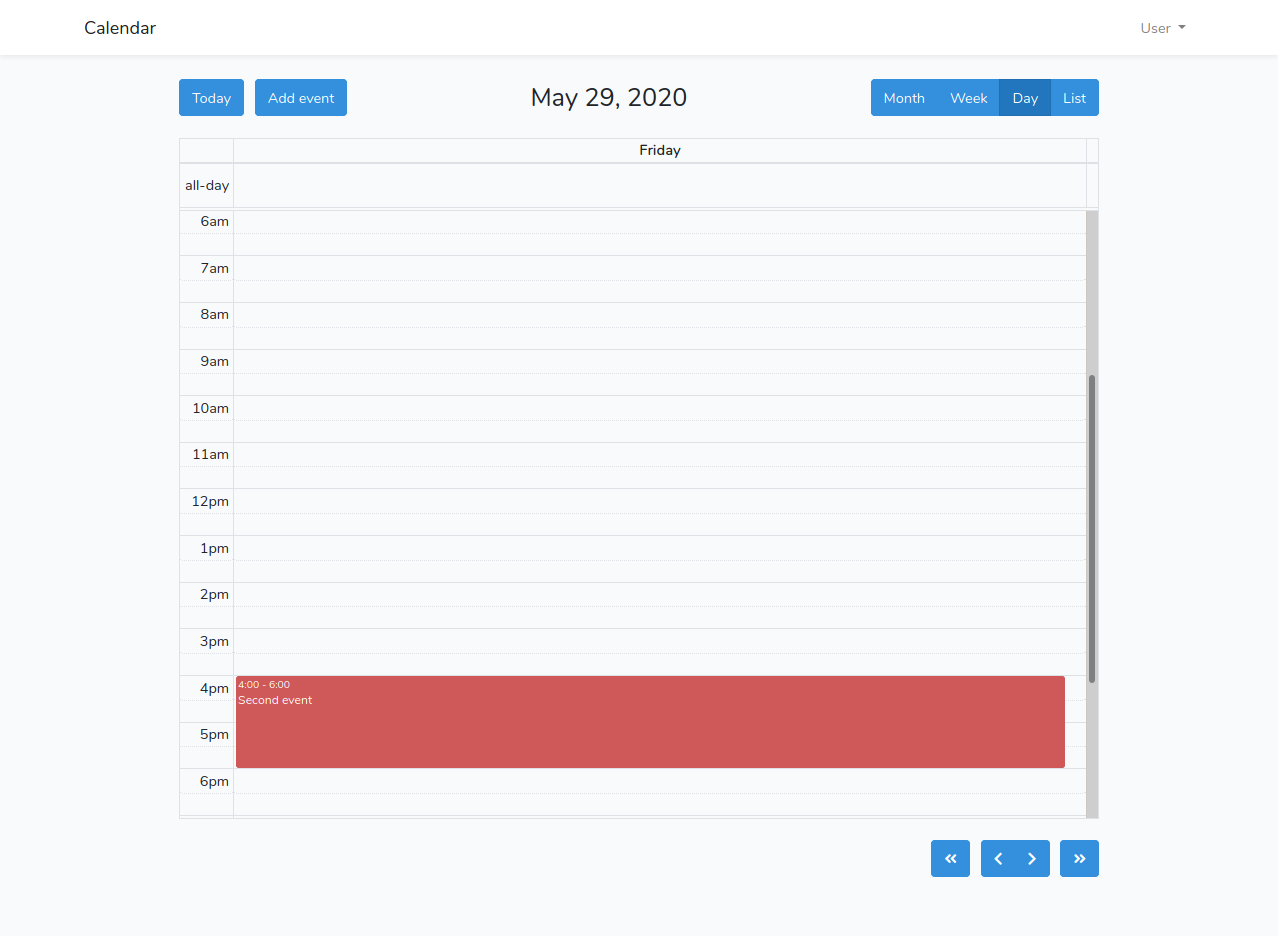
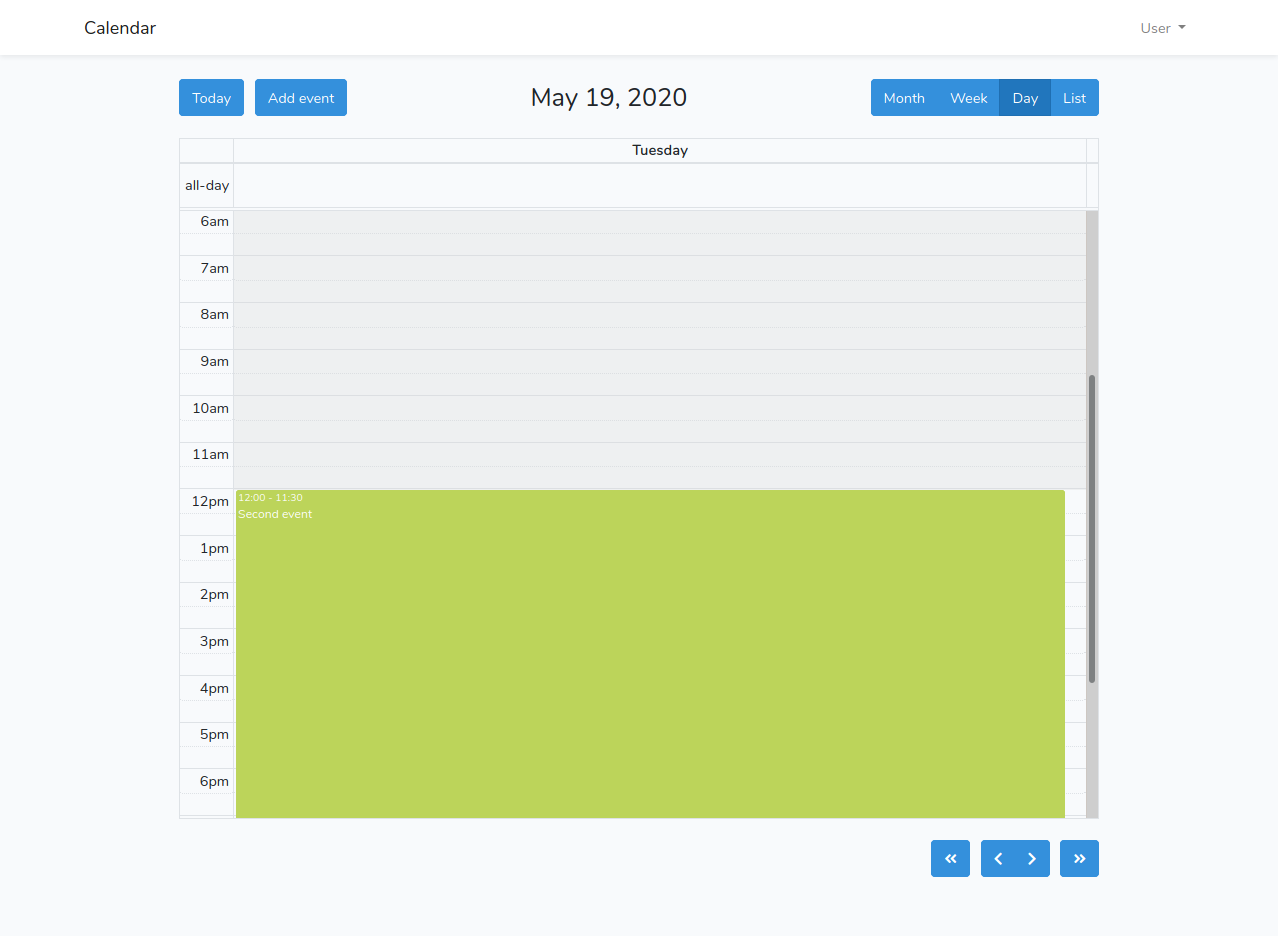
Validaciones para fechas y tiempo

Changed region(s): [[0.1831, 0.4957, 0.8545, 0.8985], [0.4883, 0.1549, 0.5493, 0.1859], [0.4577, 0.0929, 0.4883, 0.1239]]

diff --git a/public/js/main.js b/public/js/main.js
@@ -9,6 +9,19 @@ document.addEventListener('DOMContentLoaded', function() {
         //defaultDate: new Date(2019,8,1),
         //defaultView: 'timeGridDay',
 
+        businessHours: [ // specify an array instead
+            {
+              daysOfWeek: [ 1, 2, 3, 4 ], // Monday, Tuesday, Wednesday
+              startTime: '12:00', // 8am
+              endTime: '20:00' // 6pm
+            },
+            {
+              daysOfWeek: [ 5, 6, 0 ], // Thursday, Friday
+              startTime: '10:00', // 10am
+              endTime: '22:00' // 4pm
+            }
+        ],
+
         // Setting header
         header: {
             left: 'today addNewEvent',
@@ -48,6 +61,9 @@ document.addEventListener('DOMContentLoaded', function() {
                     // Clean form fields
                     cleanForm();
 
+                    // Enable star date field
+                    $('#start_date').prop('disabled', false);
+
                     // Setting date and time
                     var date = new Date();
                     var year = date.getFullYear();
@@ -60,7 +76,7 @@ document.addEventListener('DOMContentLoaded', function() {
                     $('#start_date').val(year+'-'+month+'-'+day);
                     $('#start_time').val('12:00');
                     $('#end_date').val(year+'-'+month+'-'+day);
-                    $('#end_time').val('12:00');
+                    $('#end_time').val('12:30');
 
                     // Show hide footer buttons
                     $("#btnAdd").show();
@@ -78,13 +94,14 @@ document.addEventListener('DOMContentLoaded', function() {
             // Clean form fields
             cleanForm();
             
+            // Disable star date field
             $('#start_date').prop('disabled', true);
 
             // Setting form fields with teh selected date and time
             $('#start_date').val(info.dateStr);
             $('#start_time').val('12:00');
             $('#end_date').val(info.dateStr);
-            $('#end_time').val('12:00');
+            $('#end_time').val('12:30');
             
             // Show hide footer buttons
             $("#btnAdd").show();
@@ -98,7 +115,8 @@ document.addEventListener('DOMContentLoaded', function() {
         },
 
         // Config actions when clicking in an event
-        eventClick: function(info) {            
+        eventClick: function(info) {
+            // Enable star date field
             $('#start_date').prop('disabled', false);
 
             // Getting start date and time
@@ -155,38 +173,45 @@ document.addEventListener('DOMContentLoaded', function() {
     // Config add actions
     $('#btnAdd').click(function() {
         eventObj = getFormEventData("POST");
-        sendInfoEvent('',eventObj);
+        sendInfoEvent('', eventObj);
 	})
     
     // Config edit actions
 	$('#btnEdit').click(function() {
         eventObj = getFormEventData("PATCH");
-        sendInfoEvent('/'+$('#id').val(),eventObj);
+        sendInfoEvent('/'+$('#id').val(), eventObj);
     })
 
     // Config delete actions
 	$('#btnDelete').click(function() {
         eventObj = getFormEventData("DELETE");
-        sendInfoEvent('/'+$('#id').val(),eventObj);
+        sendInfoEvent('/'+$('#id').val(), eventObj);
 	})
 
     // Getting data from form event modal
     function getFormEventData(method) {
 
-        newEventObj = {
-            title: $('#title').val(),
-            start: $('#start_date').val()+" "+$('#start_time').val(),
-            end: $('#end_date').val()+" "+$('#end_time').val(),
-            color: $('#color').val(),
-            textColor: '#ffffff',
-            description: $('#description').val(),
-            '_token': $("meta[name='csrf-token']").attr("content"),
-            '_method': method
-        }
+        // Validate date and time
+        if (validateDate()) {
+            // Creating event data object
+            newEventObj = {
+                title: $('#title').val(),
+                start: $('#start_date').val()+" "+$('#start_time').val(),
+                end: $('#end_date').val()+" "+$('#end_time').val(),
+                color: $('#color').val(),
+                textColor: '#ffffff',
+                description: $('#description').val(),
+                '_token': $("meta[name='csrf-token']").attr("content"),
+                '_method': method
+            }
 
-        return newEventObj;
+            return newEventObj;            
+        } else {
+            return
+        }
     }
 
+    // Sendind event data object to the action
     function sendInfoEvent(action,eventObj) {
         $.ajax(
             {
@@ -197,13 +222,28 @@ document.addEventListener('DOMContentLoaded', function() {
 					$('#eventModal').modal('toggle');
 					calendar.refetchEvents();
 				},
-                error: function(error){ 
+                error: function(error){
                     console.log(error);
                 }
             }
         );
-	}
-	
+    }
+
+    // Validate date and time    
+    function validateDate(){
+        
+        if (($('#start_date').val() === $('#end_date').val())
+            && ($('#start_time').val() > $('#end_time').val())) {
+            alert("The end time cannot be less than the start time");
+        } else if ($('#start_date').val() > $('#end_date').val()) {
+            alert("The end date cannot be less than the start date");
+        } else {
+            return true;
+        }
+
+    }
+    
+    // Clean form fields
 	function cleanForm() {
 		$('#id').val(""),
 		$('#title').val(""),

diff --git a/resources/views/events/index.blade.php b/resources/views/events/index.blade.php
@@ -9,7 +9,8 @@
 <link rel="stylesheet" href="{{ asset('fullcalendar/bootstrap/main.css') }}">
 <link rel="stylesheet" href="https://use.fontawesome.com/releases/v5.0.6/css/all.css">
 <style>
-	.fc-event-container a {
+	.fc-event-container a,
+	.fc-list-table .fc-list-item {
 		cursor: pointer;
 	}
 </style>
@@ -41,27 +42,27 @@
 			<div class="form-row">
 				<div class="form-group col-md-12">
 					<label for="title">Title</label>
-					<input class="form-control" type="text" name="title" id="title">
+					<input class="form-control" type="text" name="title" id="title" required>
 				</div>
 
 				<div class="form-group col-md-6">
 					<label for="start_date">Start date</label>
-					<input class="form-control" type="date" name="start_date" id="start_date">
+					<input class="form-control" type="date" name="start_date" id="start_date" required>
 				</div>
 
 				<div class="form-group col-md-6">
 					<label for="start_time">Start time</label>
-            		<input class="form-control" type="time" min="01:00 a.m." max="23:59 p.m." step="600" name="start_time" id="start_time">
+            		<input class="form-control" type="time" min="01:00 a.m." max="23:59 p.m." step="600" name="start_time" id="start_time" required>
 				</div>
 
 				<div class="form-group col-md-6">
 					<label for="end_date">End date</label>
-            		<input class="form-control" type="date" name="end_date" id="end_date">
+            		<input class="form-control" type="date" name="end_date" id="end_date" required>
 				</div>
 
 				<div class="form-group col-md-6">
 					<label for="end_time">End time</label>
-            		<input class="form-control" type="time" min="01:00 a.m." max="23:59 p.m." step="600" name="end_time" id="end_time">
+            		<input class="form-control" type="time" min="01:00 a.m." max="23:59 p.m." step="600" name="end_time" id="end_time" required>
 				</div>
 
 				<div class="form-group col-md-12">

diff --git a/database/migrations/2020_05_14_163437_create_events_table.php b/database/migrations/2020_05_14_163437_create_events_table.php
@@ -16,9 +16,10 @@ class CreateEventsTable extends Migration
         Schema::create('events', function (Blueprint $table) {
             $table->id();
             $table->string('title',255);
-            $table->text('description');
-            $table->string('color',20);
-            $table->string('textColor',20);
+            $table->text('description')->nullable();
+            $table->string('color', 20)->nullable();
+            $table->string('textColor', 20)->nullable();
+            $table->string('rendering', 50)->nullable();
             $table->dateTime('start');
             $table->dateTime('end');
             $table->timestamps();

diff --git a/README.md b/README.md
@@ -1,79 +1,47 @@
-<p align="center"><img src="https://res.cloudinary.com/dtfbvvkyp/image/upload/v1566331377/laravel-logolockup-cmyk-red.svg" width="400"></p>
+## Laravel Fullcalendar
 
-<p align="center">
-<a href="https://travis-ci.org/laravel/framework"><img src="https://travis-ci.org/laravel/framework.svg" alt="Build Status"></a>
-<a href="https://packagist.org/packages/laravel/framework"><img src="https://poser.pugx.org/laravel/framework/d/total.svg" alt="Total Downloads"></a>
-<a href="https://packagist.org/packages/laravel/framework"><img src="https://poser.pugx.org/laravel/framework/v/stable.svg" alt="Latest Stable Version"></a>
-<a href="https://packagist.org/packages/laravel/framework"><img src="https://poser.pugx.org/laravel/framework/license.svg" alt="License"></a>
-</p>
+Aplicacion demo con CRUD basico de eventos por medio de jQuery (ajax) y Laravel.
 
-## About Laravel
+## Instalar y configurar el proyecto
 
-Laravel is a web application framework with expressive, elegant syntax. We believe development must be an enjoyable and creative experience to be truly fulfilling. Laravel takes the pain out of development by easing common tasks used in many web projects, such as:
+- __Requisitos:__  
+    PHP >= 7.2.5  
+    [Composer](https://getcomposer.org)  
+    [NodeJS](https://nodejs.org)
 
-- [Simple, fast routing engine](https://laravel.com/docs/routing).
-- [Powerful dependency injection container](https://laravel.com/docs/container).
-- Multiple back-ends for [session](https://laravel.com/docs/session) and [cache](https://laravel.com/docs/cache) storage.
-- Expressive, intuitive [database ORM](https://laravel.com/docs/eloquent).
-- Database agnostic [schema migrations](https://laravel.com/docs/migrations).
-- [Robust background job processing](https://laravel.com/docs/queues).
-- [Real-time event broadcasting](https://laravel.com/docs/broadcasting).
+- Clonar repositorio e ingresar al directorio principal  
+`git clone https://github.com/alejandro-ser/laravel-fullcalendar.git`  
+`cd laravel-fullcalendar`
+- Crear una base de datos en MySQL
+- Copiar ó renombrar el archivo __*.env.example*__ a __*.env*__  
+`cp .env.example .env`  
+- Agregar la conexión a la base de de datos en **_.env_**:  
+_DB_CONNECTION=mysql_  
+_DB_HOST=127.0.0.1_  
+_DB_PORT=3306_  
+_DB_DATABASE=_**_Tu_base_de_datos_va_aquí_**  
+_DB_USERNAME=_**_Tus_credenciales_van_aquí_**  
+_DB_PASSWORD=_**_Tus_credenciales_van_aquí_**
+- Ejecutar los comandos:  
+`composer install` (instalar dependencias de Laravel)  
+`php artisan migrate` (crear tablas en la base de datos)  
+`npm install && npm run dev` (compilar los scripts JS y estilos CSS)  
+`php artisan serve` (iniciar proyecto en servidor local)
+- Ingresar a la url **_http://127.0.0.1:8000_**
 
-Laravel is accessible, powerful, and provides tools required for large, robust applications.
+### Ingresar
+- Crear una cuenta e iniciar sesión para poder ver el calendario
 
-## Learning Laravel
+## Librerias usadas
 
-Laravel has the most extensive and thorough [documentation](https://laravel.com/docs) and video tutorial library of all modern web application frameworks, making it a breeze to get started with the framework.
+- **[FullCalendar.io](https://fullcalendar.io/)**
 
-If you don't feel like reading, [Laracasts](https://laracasts.com) can help. Laracasts contains over 1500 video tutorials on a range of topics including Laravel, modern PHP, unit testing, and JavaScript. Boost your skills by digging into our comprehensive video library.
-
-## Laravel Sponsors
-
-We would like to extend our thanks to the following sponsors for funding Laravel development. If you are interested in becoming a sponsor, please visit the Laravel [Patreon page](https://patreon.com/taylorotwell).
-
-- **[Vehikl](https://vehikl.com/)**
-- **[Tighten Co.](https://tighten.co)**
-- **[Kirschbaum Development Group](https://kirschbaumdevelopment.com)**
-- **[64 Robots](https://64robots.com)**
-- **[Cubet Techno Labs](https://cubettech.com)**
-- **[Cyber-Duck](https://cyber-duck.co.uk)**
-- **[Many](https://www.many.co.uk)**
-- **[Webdock, Fast VPS Hosting](https://www.webdock.io/en)**
-- **[DevSquad](https://devsquad.com)**
-- [UserInsights](https://userinsights.com)
-- [Fragrantica](https://www.fragrantica.com)
-- [SOFTonSOFA](https://softonsofa.com/)
-- [User10](https://user10.com)
-- [Soumettre.fr](https://soumettre.fr/)
-- [CodeBrisk](https://codebrisk.com)
-- [1Forge](https://1forge.com)
-- [TECPRESSO](https://tecpresso.co.jp/)
-- [Runtime Converter](http://runtimeconverter.com/)
-- [WebL'Agence](https://weblagence.com/)
-- [Invoice Ninja](https://www.invoiceninja.com)
-- [iMi digital](https://www.imi-digital.de/)
-- [Earthlink](https://www.earthlink.ro/)
-- [Steadfast Collective](https://steadfastcollective.com/)
-- [We Are The Robots Inc.](https://watr.mx/)
-- [Understand.io](https://www.understand.io/)
-- [Abdel Elrafa](https://abdelelrafa.com)
-- [Hyper Host](https://hyper.host)
-- [Appoly](https://www.appoly.co.uk)
-- [OP.GG](https://op.gg)
-- [云软科技](http://www.yunruan.ltd/)
-
-## Contributing
-
-Thank you for considering contributing to the Laravel framework! The contribution guide can be found in the [Laravel documentation](https://laravel.com/docs/contributions).
-
-## Code of Conduct
-
-In order to ensure that the Laravel community is welcoming to all, please review and abide by the [Code of Conduct](https://laravel.com/docs/contributions#code-of-conduct).
-
-## Security Vulnerabilities
-
-If you discover a security vulnerability within Laravel, please send an e-mail to Taylor Otwell via [taylor@laravel.com](mailto:taylor@laravel.com). All security vulnerabilities will be promptly addressed.
+## Imagenes demo
+![Simple, fast routing engine](public/calendar_month.png)
+![Simple, fast routing engine](public/calendar_form.png)
+![Simple, fast routing engine](public/calendar_week.png)
+![Simple, fast routing engine](public/calendar_day.png)
+![Simple, fast routing engine](public/calendar_list.png)
 
 ## License
-
-The Laravel framework is open-sourced software licensed under the [MIT license](https://opensource.org/licenses/MIT).
+[Licencia MIT](https://github.com/alejandro-ser/laravel-fullcalendar/blob/master/LICENSE)
